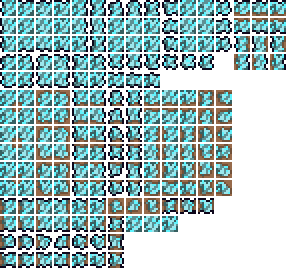
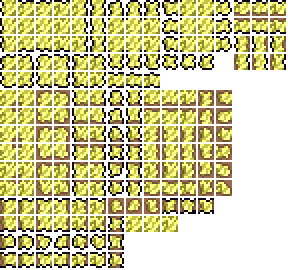
Change electrum - Edited all electrum based sprites to have yellow base instead of cyan

diff --git a/Content/Tiles/ElectrumOre.cs b/Content/Tiles/ElectrumOre.cs
@@ -19,7 +19,7 @@ namespace Endtime.Content.Tiles
             Main.tileSpelunker[Type] = true;
             Main.tileOreFinderPriority[Type] = 420;
 
-            AddMapEntry(new Color(102, 199, 204), CreateMapEntryName());
+            AddMapEntry(new Color(171, 171, 34), CreateMapEntryName());
 
             DustType = DustID.Ice;
             ItemDrop = ModContent.ItemType<Items.Placeables.ElectrumOre>();

diff --git a/Content/Tiles/ElectrumBars.cs b/Content/Tiles/ElectrumBars.cs
@@ -21,7 +21,7 @@ namespace Endtime.Content.Tiles
             TileObjectData.newTile.LavaDeath = false;
             TileObjectData.addTile(Type);
 
-            AddMapEntry(new Color(125, 249, 255), Language.GetText("MapObject.MetalBar"));
+            AddMapEntry(new Color(255, 255, 51), Language.GetText("MapObject.MetalBar"));
         }
 
         public override bool Drop(int x, int y)

diff --git a/Content/Items/Placeables/ElectrumBar.cs b/Content/Items/Placeables/ElectrumBar.cs
@@ -27,7 +27,7 @@ namespace Endtime.Content.Items.Placeables
             Item.useTime = 15;
             Item.autoReuse = true;
 
-            Item.rare = ItemRarityID.Cyan;
+            Item.rare = ItemRarityID.Yellow;
 
             Item.createTile = ModContent.TileType<Tiles.ElectrumBars>();
             Item.placeStyle = 0;

diff --git a/Content/Items/Weapons/ElectrumStaff.cs b/Content/Items/Weapons/ElectrumStaff.cs
@@ -25,7 +25,7 @@ namespace Endtime.Content.Items.Weapons
 			Item.noMelee = true;
 			Item.knockBack = 4;
 			Item.value = Item.buyPrice(silver: 70);
-			Item.rare = ItemRarityID.Cyan;
+			Item.rare = ItemRarityID.Yellow;
 			Item.UseSound = SoundID.Item71;
 			Item.autoReuse = true;
 			Item.shoot = ProjectileID.PurpleLaser;

diff --git a/Content/Items/Placeables/ElectrumOre.cs b/Content/Items/Placeables/ElectrumOre.cs
@@ -27,7 +27,7 @@ namespace Endtime.Content.Items.Placeables
             Item.useTurn = true;
             Item.autoReuse = true;
 
-            Item.rare = ItemRarityID.Cyan;
+            Item.rare = ItemRarityID.Yellow;
 
             Item.createTile = ModContent.TileType<Tiles.ElectrumOre>();
         }

diff --git a/Content/Items/Tools/ElectrumHamaxe.cs b/Content/Items/Tools/ElectrumHamaxe.cs
@@ -29,7 +29,7 @@ namespace Endtime.Content.Items.Tools
         Item.knockBack = 7f;
 
         Item.value = Item.buyPrice(silver: 70);
-        Item.rare = ItemRarityID.Cyan;
+        Item.rare = ItemRarityID.Yellow;
 
         Item.axe = 20;
         Item.hammer = 150;

diff --git a/Content/Items/Tools/ElectrumPickaxe.cs b/Content/Items/Tools/ElectrumPickaxe.cs
@@ -29,7 +29,7 @@ namespace Endtime.Content.Items.Tools
         Item.knockBack = 2f;
 
         Item.value = Item.buyPrice(silver: 70);
-        Item.rare = ItemRarityID.Cyan;
+        Item.rare = ItemRarityID.Yellow;
 
         Item.pick = 110;
     }

diff --git a/Content/Items/Weapons/ElectrumSword.cs b/Content/Items/Weapons/ElectrumSword.cs
@@ -30,7 +30,7 @@ namespace Endtime.Content.Items.Weapons
       Item.crit = 5;
 
       Item.value = Item.buyPrice(silver: 70);
-      Item.rare = ItemRarityID.Cyan;
+      Item.rare = ItemRarityID.Yellow;
 
       Item.UseSound = SoundID.Item1;
     }
